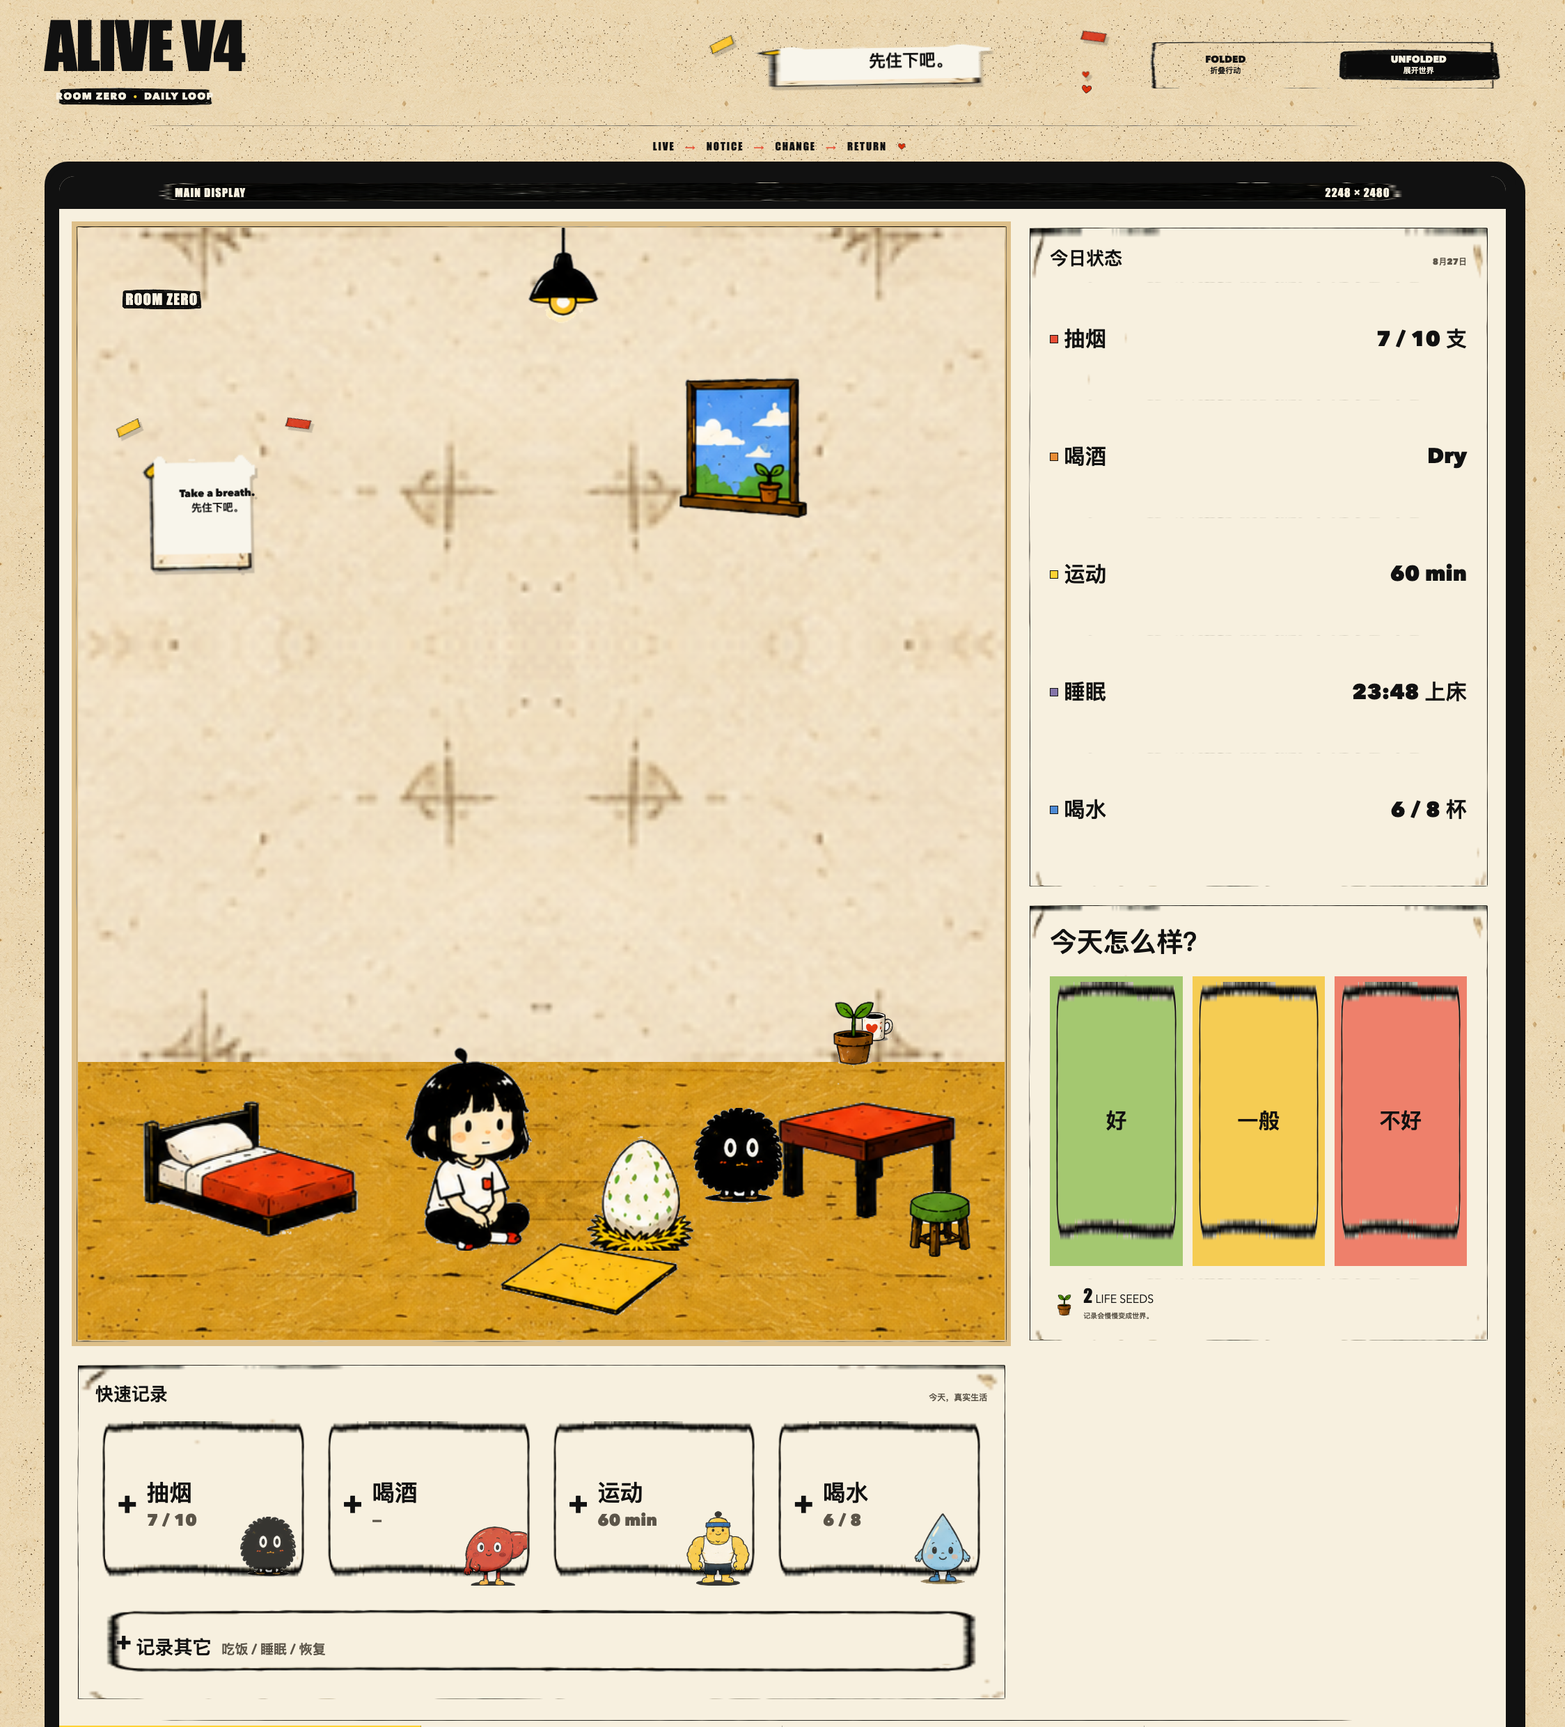
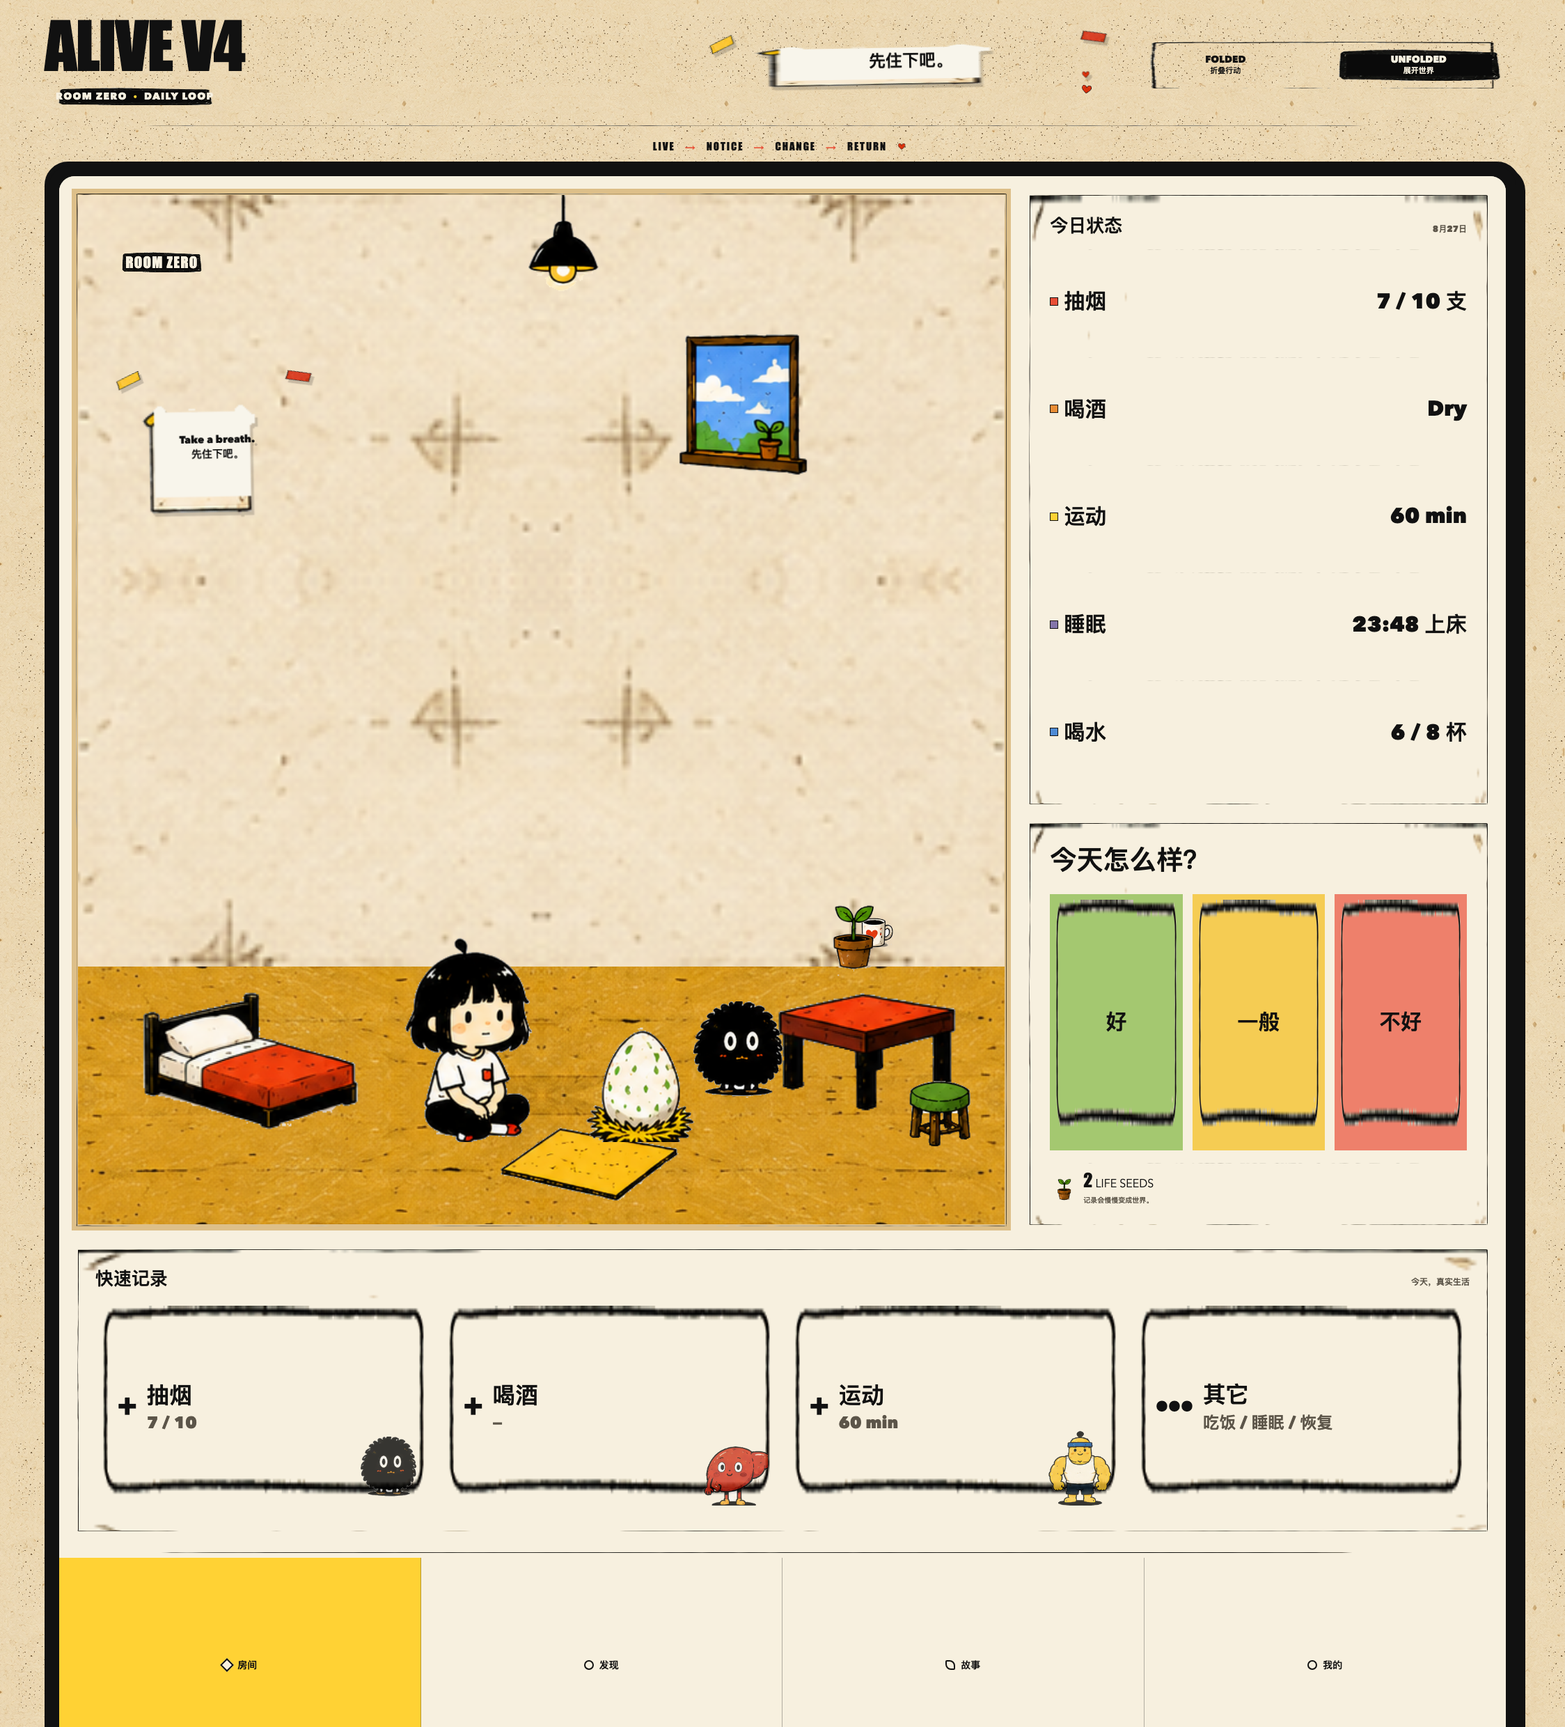
fix: implement alive layout contract

diff --git a/src/styles/app.css b/src/styles/app.css
@@ -30,15 +30,14 @@ img { max-width: 100%; }
 
 .handheld-shell { padding: 14px; border: 7px solid var(--ink); border-radius: 34px; background: var(--ink); box-shadow: var(--heavy-shadow); }
 .screen-bezel { overflow: hidden; border: 0; border-radius: 22px; background: var(--paper); }
-.screen-bezel[data-screen-mode="unfolded"] { aspect-ratio: 2248 / 2480; }
-.screen-bezel[data-screen-mode="folded"] { aspect-ratio: 1140 / 2616; }
-.screen-bezel[data-screen-mode="unfolded"], .screen-bezel[data-screen-mode="folded"] { display: grid; grid-template-rows: auto minmax(0, 1fr) auto; }
+.screen-bezel[data-screen-mode="unfolded"] { aspect-ratio: 2248 / 2480; display: grid; grid-template-rows: minmax(0, 86fr) minmax(0, 14fr); }
+.screen-bezel[data-screen-mode="folded"] { aspect-ratio: 1140 / 2616; display: block; }
 .screen-label { display: flex; justify-content: space-between; gap: 14px; min-width: 0; padding: 14px 8%; color: var(--paper); background-color: var(--ink); background-image: url('../../public/assets/material/frame-cta-black.png'); background-size: 100% 100%; font-family: var(--font-display); font-size: clamp(11px, 1.2vw, 16px); letter-spacing: .08em; white-space: nowrap; }
 .screen-label span { min-width: 0; overflow: hidden; text-overflow: ellipsis; }
-.unfolded-display { display: grid; grid-template-columns: minmax(0, 2fr) minmax(0, 1fr); grid-template-rows: minmax(0, 1.3fr) minmax(220px, .4fr); gap: 18px; min-width: 0; min-height: 0; height: 100%; padding: 18px; overflow: hidden; background: var(--paper); }
+.unfolded-display { display: grid; grid-template-columns: minmax(0, 2fr) minmax(0, 1fr); grid-template-rows: minmax(0, 78fr) minmax(220px, 22fr); gap: 18px; min-width: 0; min-height: 0; height: 100%; padding: 18px; overflow: hidden; background: var(--paper); }
 .unfolded-room { grid-column: 1; grid-row: 1; min-width: 0; min-height: 0; }
 .unfolded-room .room-scene { width: 100%; height: 100%; aspect-ratio: auto; }
-.unfolded-display > .quick-records { grid-column: 1; grid-row: 2; display: flex; flex-direction: column; min-height: 0; height: 100%; margin-top: 0; padding: 22px 24px; }
+.unfolded-display > .quick-records { grid-column: 1 / -1; grid-row: 2; display: flex; flex-direction: column; min-height: 0; height: 100%; margin-top: 0; padding: 22px 24px; }
 .unfolded-display > .quick-records .quick-grid { flex: 1; min-height: 0; align-items: stretch; gap: 14px; }
 .unfolded-display > .quick-records .record-card { min-height: 0; padding: 24px; font-size: clamp(24px, 1.45vw, 38px); align-content: center; }
 .unfolded-display > .quick-records .record-plus { margin-right: 14px; font-size: clamp(42px, 2.3vw, 58px); }
@@ -116,13 +115,15 @@ img { max-width: 100%; }
 
 .folded-display { display: none; }
 .bottom-nav { display: grid; grid-template-columns: repeat(4, 1fr); border-top: 0; background-color: var(--paper); background-image: url('../../public/assets/material/divider-handdrawn.png'); background-position: center top; background-size: 100% 12px; background-repeat: no-repeat; padding-top: 12px; }
+.bottom-nav { height: 100%; }
+[data-screen-mode="folded"] .bottom-nav { display: none; }
 .nav-item { display: flex; justify-content: center; align-items: center; gap: 8px; min-height: 68px; border: 0; border-right: 1.5px solid rgba(17,17,17,.3); background: transparent; font-size: 14px; font-weight: 950; }
 .nav-item:last-child { border-right: 0; } .nav-item.is-active { background-color: var(--yellow); }
 .nav-icon { width: 14px; height: 14px; display: inline-block; border: 2px solid var(--ink); background: var(--paper); } .nav-icon.house { transform: rotate(45deg); } .nav-icon.discover { border-radius: 50%; } .nav-icon.story { border-radius: 2px 8px 2px 8px; } .nav-icon.me { border-radius: 50%; }
 .footer-caption { display: flex; justify-content: space-between; gap: 20px; align-items: baseline; padding-top: 24px; font-family: var(--font-display); } .footer-caption span { font-size: 25px; } .footer-caption small { letter-spacing: .07em; }
 
 [data-mode="folded"] .unfolded-display { display: none; }
-[data-mode="folded"] .folded-display { display: grid; grid-template-rows: minmax(0, 1.2fr) minmax(112px, .4fr) minmax(62px, .3fr) minmax(48px, .18fr); gap: 10px; min-height: 0; height: 100%; padding: 10px; }
+[data-mode="folded"] .folded-display { display: grid; grid-template-rows: minmax(0, 40fr) minmax(0, 22fr) minmax(0, 20fr) minmax(0, 10fr); gap: 10px; min-height: 0; height: 100%; padding: 10px; }
 [data-mode="folded"] .folded-scene { min-height: 0; }
 [data-mode="folded"] .folded-scene .room-scene { width: 100%; height: 100%; aspect-ratio: auto; max-height: none; }
 [data-mode="folded"] .folded-scene .room-label { top: 4%; left: 7%; }
@@ -138,6 +139,12 @@ img { max-width: 100%; }
 [data-mode="folded"] .folded-scene .resident-asset { bottom: 8%; left: 11%; width: 37%; }
 [data-mode="folded"] .folded-scene .smoke-asset { bottom: 14%; right: 4%; width: 24%; }
 [data-mode="folded"] .focus-panel { min-height: 0; margin-top: 0; }
+[data-mode="folded"] .folded-focus { padding: 20px 24px; }
+[data-mode="folded"] .folded-focus .focus-copy p { font-size: clamp(13px, 1vw, 18px); }
+[data-mode="folded"] .folded-focus .focus-meter { display: grid; grid-template-columns: auto auto; align-items: baseline; column-gap: 8px; row-gap: 3px; flex-basis: 170px; }
+[data-mode="folded"] .folded-focus .focus-meter strong { font-size: clamp(48px, 4vw, 72px); }
+[data-mode="folded"] .folded-focus .focus-meter span { font-size: clamp(24px, 1.8vw, 34px); }
+[data-mode="folded"] .folded-focus .focus-meter small { grid-column: 1 / -1; color: var(--muted); font-size: clamp(12px, .85vw, 17px); font-weight: 800; }
 [data-mode="folded"] .focus-copy p { font-size: 12px; }
 [data-mode="folded"] .focus-meter { display: block; flex-basis: 150px; }
 .primary-action, .secondary-action { width: 100%; margin-top: 0; border: 0; font-weight: 950; }
@@ -149,7 +156,7 @@ img { max-width: 100%; }
 @media (max-width: 860px) {
   .brand-header { grid-template-columns: 1fr 1fr; gap: 18px; }
   .brand-note { grid-column: 1 / 2; } .mode-tabs { grid-column: 2 / 3; }
-  .unfolded-display { grid-template-columns: 1fr; grid-template-rows: auto auto auto; } .unfolded-room { grid-column: 1; grid-row: 1; } .unfolded-room .room-scene { height: auto; aspect-ratio: 1.34; } .status-column { grid-column: 1; grid-row: 2; grid-template-columns: 1fr 1fr; grid-template-rows: auto auto; height: auto; } .status-card { grid-row: span 2; } .unfolded-display > .quick-records { grid-column: 1; grid-row: 3; height: auto; }
+  .screen-bezel[data-screen-mode="unfolded"] { display: block; aspect-ratio: auto; } .unfolded-display { grid-template-columns: 1fr; grid-template-rows: auto auto auto; height: auto; } .unfolded-room { grid-column: 1; grid-row: 1; } .unfolded-room .room-scene { height: auto; aspect-ratio: 1.34; } .status-column { grid-column: 1; grid-row: 2; grid-template-columns: 1fr 1fr; grid-template-rows: auto auto; height: auto; } .status-card { grid-row: span 2; } .unfolded-display > .quick-records { grid-column: 1; grid-row: 3; height: auto; } .screen-bezel[data-screen-mode="unfolded"] .bottom-nav { height: auto; }
 }
 @media (max-width: 600px) {
   .app-stage { padding: 16px 10px 30px; }

diff --git a/src/layout/shell.js b/src/layout/shell.js
@@ -48,7 +48,9 @@ function actionCard(item, records) {
 }
 
 function quickRecordBar(records) {
-  return `<section class="quick-records"><div class="section-heading"><h2>快速记录</h2><span>今天，真实生活</span></div><div class="quick-grid">${scene.actions.slice(0, 4).map((item) => actionCard(item, records)).join('')}</div><button class="other-record" data-action="food" type="button"><span>+</span>记录其它 <small>吃饭 / 睡眠 / 恢复</small></button></section>`;
+  const cards = scene.actions.slice(0, 3).map((item) => actionCard(item, records)).join('');
+  const other = '<button class="record-card accent-green other-card" data-action="food" type="button"><span class="record-plus">•••</span><span class="record-label">其它</span><span class="record-value">吃饭 / 睡眠 / 恢复</span></button>';
+  return `<section class="quick-records"><div class="section-heading"><h2>快速记录</h2><span>今天，真实生活</span></div><div class="quick-grid">${cards}${other}</div></section>`;
 }
 
 function focusPanel(records, lastAction) {
@@ -56,12 +58,17 @@ function focusPanel(records, lastAction) {
   return `<section class="focus-panel"><div class="focus-copy"><span class="mini-kicker">TODAY · 今天</span><h2>${scene.focus}</h2><p>${lastAction ? `刚刚记录了「${actionLabel}」，房间收到了。` : '先做一个小动作，世界会记住。'}</p></div><div class="focus-meter"><strong>${records.smoke}</strong><span>/ 10</span><div class="meter-track"><i style="width:${Math.min(records.smoke * 10, 100)}%"></i></div></div></section>`;
 }
 
+function foldedFocusPanel(records, lastAction) {
+  const actionLabel = lastAction ? action(lastAction).label : null;
+  return `<section class="focus-panel folded-focus"><div class="focus-copy"><span class="mini-kicker">TODAY · 今天</span><h2>${scene.focus}</h2><p>${actionLabel ? `刚刚记录了「${actionLabel}」。` : '不超过 10 支，先照顾好今天。'}</p></div><div class="focus-meter"><strong>${records.smoke}</strong><span>支</span><small>目标 ≤10支</small></div></section>`;
+}
+
 function statusPanel(records) {
   return `<aside class="status-column"><section class="status-card"><div class="section-heading"><h2>今日状态</h2><span>8月27日</span></div>${statusRows(records)}</section><section class="mood-card"><h2>今天怎么样？</h2><div class="moods"><button type="button" class="mood good">好</button><button type="button" class="mood okay">一般</button><button type="button" class="mood bad">不好</button></div><div class="seed-chip"><img src="${scene.assets.plant}" alt=""><span><b>2</b> LIFE SEEDS<br><small>记录会慢慢变成世界。</small></span></div></section></aside>`;
 }
 
 function foldedDisplay({ records, lastAction, smokeEncountered }) {
-  return `<div class="folded-display"><div class="folded-scene">${roomScene({ smokeEncountered })}</div>${focusPanel(records, lastAction)}<button class="primary-action" data-action="smoke" type="button"><img src="${scene.assets.smokeIcon}" alt="">+ 抽了一支</button><button class="secondary-action" data-action="food" type="button">+ 记录其它 <span>吃饭 / 睡眠 / 恢复</span></button></div>`;
+  return `<div class="folded-display"><div class="folded-scene">${roomScene({ smokeEncountered })}</div>${foldedFocusPanel(records, lastAction)}<button class="primary-action" data-action="smoke" type="button"><img src="${scene.assets.smokeIcon}" alt="">+ 抽了一支</button><button class="secondary-action" data-action="food" type="button">+ 记录其它 <span>吃饭 / 睡眠 / 恢复</span></button></div>`;
 }
 
 function unfoldedDisplay({ records, lastAction, smokeEncountered }) {
@@ -73,5 +80,5 @@ function bottomNav() {
 }
 
 export function renderShell({ mode, records, lastAction, smokeEncountered }) {
-  return `<div class="app-stage" data-mode="${mode}"><header class="brand-header"><div class="brand-lockup"><div class="brand-title">${scene.title}</div><div class="brand-subtitle">${scene.room} <span>·</span> DAILY LOOP</div></div><div class="brand-note">${note(scene.tagline, 'header-note')}<img src="${scene.assets.heart}" alt="" aria-hidden="true"></div><div class="mode-tabs" aria-label="掌机模式"><button data-mode-choice="folded" class="${mode === 'folded' ? 'is-active' : ''}" type="button">FOLDED<br><small>折叠行动</small></button><button data-mode-choice="unfolded" class="${mode === 'unfolded' ? 'is-active' : ''}" type="button">UNFOLDED<br><small>展开世界</small></button></div></header><section class="loop-strip"><span>LIVE</span><b>→</b><span>NOTICE</span><b>→</b><span>CHANGE</span><b>→</b><span>RETURN</span><img src="${scene.assets.heart}" alt="" aria-hidden="true"></section><section class="handheld-shell"><div class="screen-bezel" data-screen-mode="${mode}"><div class="screen-label"><span>${mode === 'folded' ? 'COVER DISPLAY' : 'MAIN DISPLAY'}</span><span>${mode === 'folded' ? '1140 × 2616' : '2248 × 2480'}</span></div>${mode === 'folded' ? foldedDisplay({ records, lastAction, smokeEncountered }) : unfoldedDisplay({ records, lastAction, smokeEncountered })}${bottomNav()}</div></section><footer class="footer-caption"><span>把自己，养回来。</span><small>ALIVE V4 · ROOM ZERO · ONE SMALL THING AT A TIME</small></footer></div>`;
+  return `<div class="app-stage" data-mode="${mode}"><header class="brand-header"><div class="brand-lockup"><div class="brand-title">${scene.title}</div><div class="brand-subtitle">${scene.room} <span>·</span> DAILY LOOP</div></div><div class="brand-note">${note(scene.tagline, 'header-note')}<img src="${scene.assets.heart}" alt="" aria-hidden="true"></div><div class="mode-tabs" aria-label="掌机模式"><button data-mode-choice="folded" class="${mode === 'folded' ? 'is-active' : ''}" type="button">FOLDED<br><small>折叠行动</small></button><button data-mode-choice="unfolded" class="${mode === 'unfolded' ? 'is-active' : ''}" type="button">UNFOLDED<br><small>展开世界</small></button></div></header><section class="loop-strip"><span>LIVE</span><b>→</b><span>NOTICE</span><b>→</b><span>CHANGE</span><b>→</b><span>RETURN</span><img src="${scene.assets.heart}" alt="" aria-hidden="true"></section><section class="handheld-shell"><div class="screen-bezel" data-screen-mode="${mode}" aria-label="${mode === 'folded' ? '折叠封面屏' : '展开主屏'}">${mode === 'folded' ? foldedDisplay({ records, lastAction, smokeEncountered }) : unfoldedDisplay({ records, lastAction, smokeEncountered })}${mode === 'unfolded' ? bottomNav() : ''}</div></section><footer class="footer-caption"><span>把自己，养回来。</span><small>ALIVE V4 · ROOM ZERO · ONE SMALL THING AT A TIME</small></footer></div>`;
 }

diff --git a/index.html b/index.html
@@ -5,11 +5,11 @@
     <meta name="viewport" content="width=device-width, initial-scale=1.0, viewport-fit=cover" />
     <meta name="theme-color" content="#f4ead5" />
     <title>ALIVE V4 · Room Zero</title>
-    <link rel="stylesheet" href="./src/styles/tokens.css?v=20260830-reference1" />
-    <link rel="stylesheet" href="./src/styles/app.css?v=20260830-reference1" />
+    <link rel="stylesheet" href="./src/styles/tokens.css?v=20260830-contract1" />
+    <link rel="stylesheet" href="./src/styles/app.css?v=20260830-contract1" />
   </head>
   <body>
     <main id="app" aria-live="polite"></main>
-    <script type="module" src="./src/app.js?v=20260830-reference1"></script>
+    <script type="module" src="./src/app.js?v=20260830-contract1"></script>
   </body>
 </html>

diff --git a/design-qa.md b/design-qa.md
@@ -5,7 +5,7 @@ visual review: ready for user sign-off
 
 Reference: `/Users/Jenny/Desktop/alive排版.png` plus the supplied `alive 01–05.png` and `kit1–9.png` visual kits.
 
-Captured states (reference1):
+Captured states (contract1):
 
 - 390×844 folded cover viewport: `outputs/qa/folded-390x844.png`
 - 1140×2616 folded cover viewport: `outputs/qa/folded-1140x2616.png`
@@ -15,17 +15,18 @@ Checks completed:
 
 - Handheld black bezel remains the device shell; UI panels and actions now use the supplied hand-drawn panel/button/CTA/label frames instead of straight black rectangles.
 - Paper texture and grain overlay are applied to the page shell, while the supplied wall/floor textures remain inside the Room Zero scene.
-- Unfolded mode keeps the Room Zero world in the main column, status/mood in the secondary column, quick records below, and navigation last.
-- Unfolded mode follows the reference hierarchy: the room and status/mood share the upper band; the compact horizontal quick-record band sits below the room; navigation spans the full screen width.
+- Unfolded mode keeps the Room Zero world in the 2fr main column, status/mood in the 1fr secondary column, then places a full-width horizontal quick-record band below the upper world/status band, followed by full-width navigation.
+- The unfolded quick-record band contains four equal actions: `+ 抽烟`, `+ 喝酒`, `+ 运动`, and `••• 其它`.
+- The dimension labels are documentation/QA metadata only; the product screen itself contains no extra `MAIN DISPLAY` bar.
 - Unfolded mode uses the corrected physical ratio (2248 wide × 2480 high) with large, vertically balanced record and mood controls instead of oversized empty cards.
 - Unfolded mode does not reuse the folded focus card; the room keeps its complete near-square composition without clipping the residents or world objects.
-- Folded mode keeps the action order: room → today's focus → primary action → other records → navigation.
+- Folded mode keeps the action order: room → today's focus → primary action → other records; it intentionally has no unfolded HUD, full quick-record row, or four-item navigation.
 - Real Room Zero furniture, characters, world objects, UI paper/tape, frame assets, and textures are loaded from the copied asset library.
 - Entry points and asset references are repository-relative so a GitHub Pages project URL can load the app on mobile.
 - Screen aspect-ratio constraints are explicit in CSS and covered by automated tests: unfolded width/height `2248 / 2480`, folded width/height `1140 / 2616`; folded internal rows keep the room short enough for the full daily loop.
 - Mode switching and the five first-stage record actions are interactive; state remains intentionally in memory until the persistence phase.
 - Automated tests: 5/5 passed.
 
-Current review note: GitHub publication is intentionally paused until the visual version is signed off.
+Current review note: GitHub publication is intentionally paused because this contract requests implementation and QA only.
 
 Follow-up notes for Phase 2: add append-only event records, Undo, Check-in, Settlement, and versioned local persistence without changing this layout contract.
